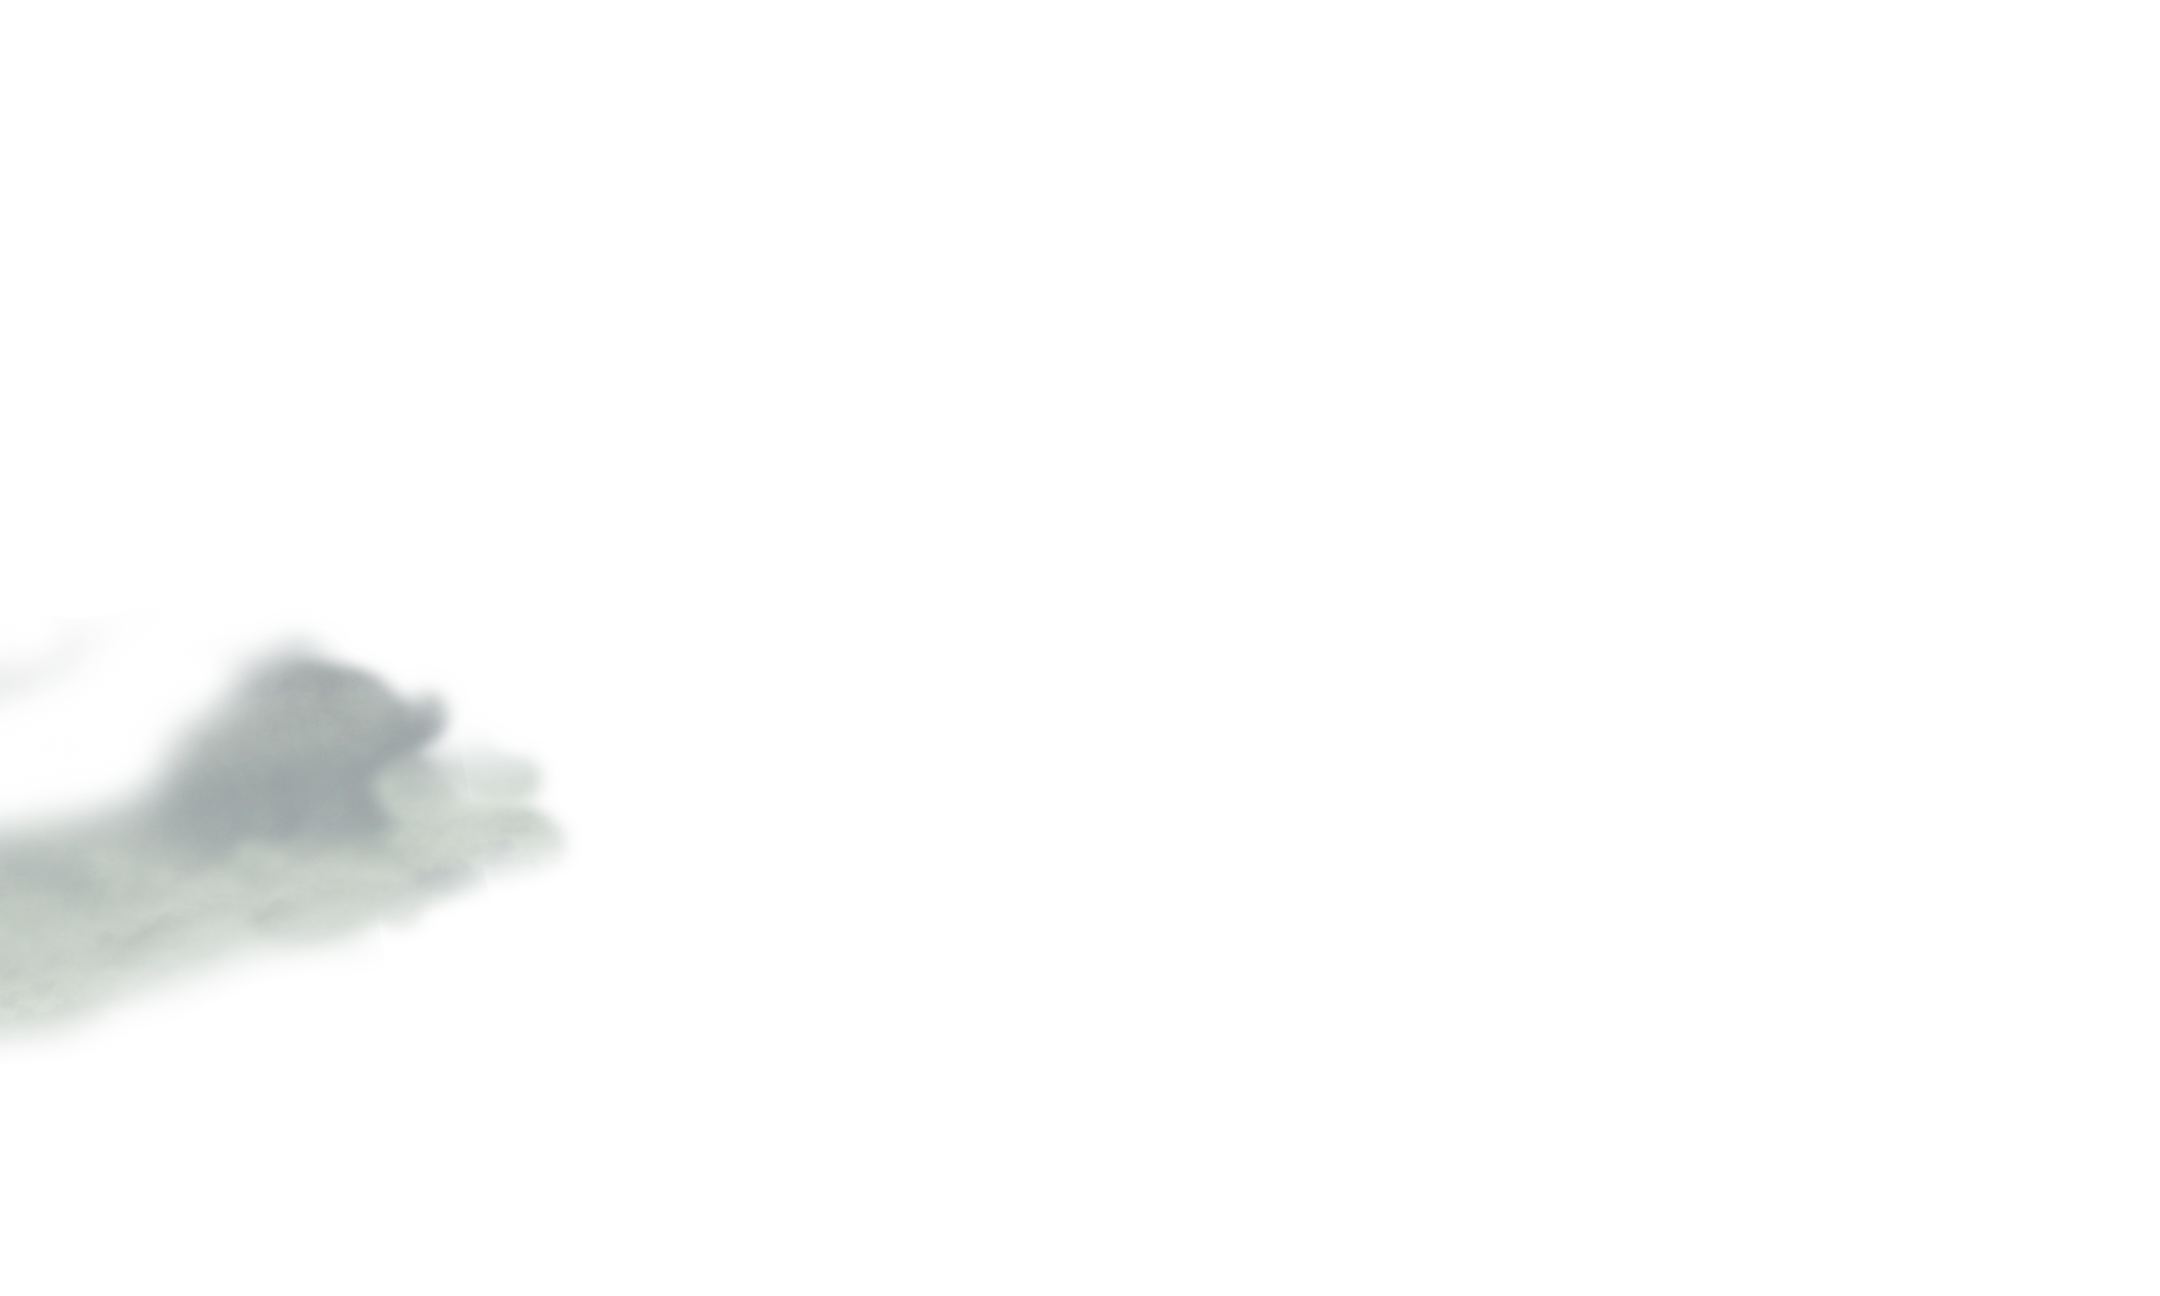
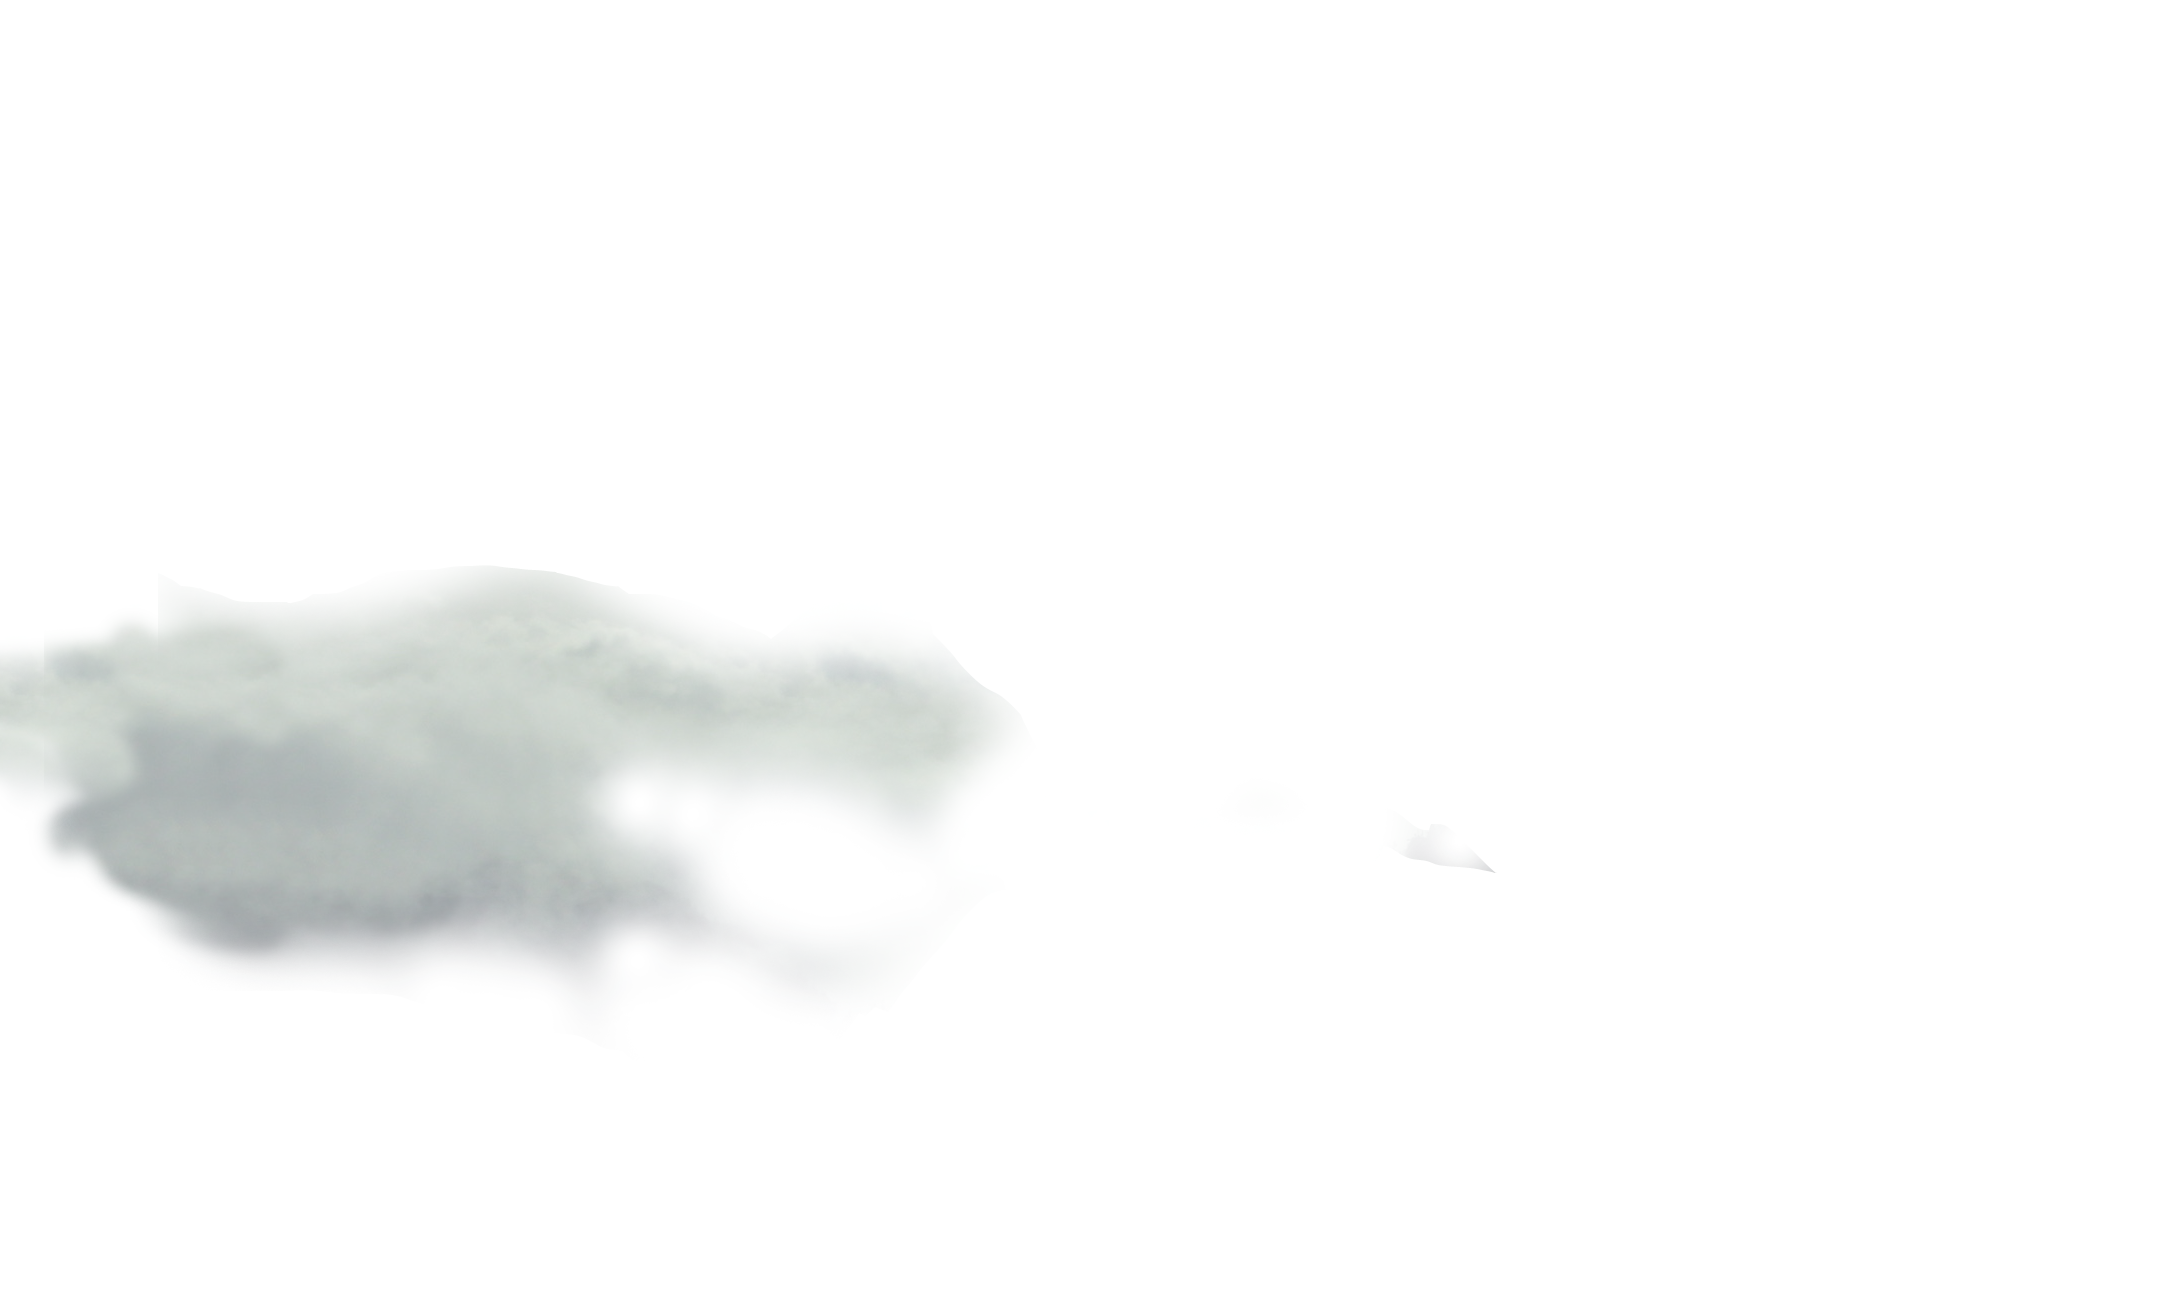
images/

Changed region(s): [[0.0, 0.4321, 0.4653, 0.8025]]

diff --git a/index.html b/index.html
@@ -12,13 +12,11 @@
 <body>
 
 	<header class="masthead">
+		<div class="cloud"><img class="cloud1" src="images/cloud1.png"></div>
+		<div class="cloud"><img class="cloud2" src="images/cloud2.png"></div>
+		<div class="cloud"><img class="cloud3" src="images/cloud3.png"></div>
+		<div class="cloud"><img class="cloud4" src="images/cloud4.png"></div>
 		<div class="mastnback">
-			<div class="background">
-				<div class="cloud"><img class="cloud1" src="images/cloud1.png"></div>
-				<div class="cloud"><img class="cloud2" src="images/cloud2.png"></div>
-				<div class="cloud"><img class="cloud3" src="images/cloud3.png"></div>
-				<div class="cloud"><img class="cloud4" src="images/cloud4.png"></div>
-			</div>
 			<nav class="main-navbar">
 				<div class="content">
 					<ul class="links">

diff --git a/css/style.css b/css/style.css
@@ -46,14 +46,16 @@ hr {
 	font-family: 'Muli', sans-serif;
 	font-size: 1.5em;
 	z-index: -1;
+	overflow: hidden;
+	max-height: 800px;
 }
 
 .cloud {
-	position: absolute;
+	position: relative;
 }
 
 /* CSS animation */
-.masthead #cloud {
+.masthead #clouds {
 	/* position: center;
 	height: 50rem;
 	-moz-animation:  .5s linear;
@@ -62,7 +64,7 @@ hr {
 	animation-delay: 0; */
 }
 
-@keyframes cloud {
+@keyframes clouds {
 	0% {
 
 	}
